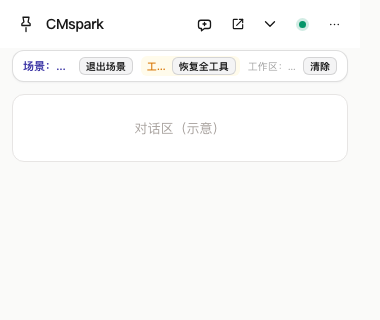
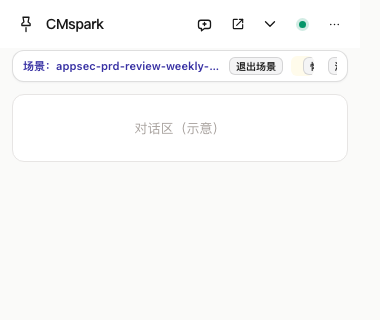
fix(sidepanel): #321 PR-2 round-2 — 场景名 chip 永不让位（grok 复审 MAJOR）
- SceneStatusRow: pack chip 专用 sceneChip (flexShrink:0)；工具面/工作区 chip
  先让位（flexShrink:1 + minWidth:0 + ellipsis）；行仍 nowrap，80px 帽不换行
- linkish 帽 160→200：病理长 id 只在自身帽上尾部省略，绝不塌缩成「场景：…」
- 决策注释写明 §1.1-3 让位表：attention 态场景让位，idle/轻 primary 必显
- 测试：+场景名可见性契约；禁第四条带正则改为 FocusBand↔ChatView 之间
  零 JSX 组件（含带子节点挂载）；ChatView/FleetStrip hook 消费钉死
- NIT-1: scripts/measure-now-band-heights.mjs — headless Chrome 实测
  [data-focus-band] 高度（scene 34px / confirm 68px ≤80）+ 场景名按钮宽度
  200px 未被压瘪；验收图换真实长 pack 名 appsec-prd-review-weekly-audit 重拍

Refs #321

Changed region(s): [[0.1447, 0.1562, 0.7526, 0.25], [0.8105, 0.1875, 0.8974, 0.25]]

diff --git a/chrome-extension/tests/now-band-321.test.ts b/chrome-extension/tests/now-band-321.test.ts
@@ -157,9 +157,11 @@ test("#321 PR-2: single buildScopedRunBusyInput derivation (was three)", () => {
     if (occurrences) hits.push(...occurrences.map(() => f))
   }
   assert.deepEqual(hits, ["hooks/use-scoped-run-busy.ts"])
-  // App + FocusBand both consume the hook
+  // App + FocusBand + ChatView + FleetStrip all consume the hook (no re-fork)
   assert.match(src("src/sidepanel/App.tsx"), /useScopedRunBusy\(\)/)
   assert.match(src("src/sidepanel/components/FocusBand.tsx"), /useScopedRunBusy\(\)/)
+  assert.match(src("src/sidepanel/components/ChatView.tsx"), /useScopedRunBusy\(\)/)
+  assert.match(src("src/sidepanel/components/FleetStrip.tsx"), /useScopedRunBusy\(\)/)
 })
 
 test("#321 PR-2: no fourth horizontal band — App stack is StatusRail + FocusBand above ChatView", () => {
@@ -172,8 +174,11 @@ test("#321 PR-2: no fourth horizontal band — App stack is StatusRail + FocusBa
   const band = app.indexOf("<FocusBand")
   const chat = app.indexOf("<ChatView")
   assert.ok(rail >= 0 && band > rail && chat > band)
-  const between = app.slice(band, chat)
-  assert.doesNotMatch(between, /<[A-Z][A-Za-z]+\s*\/>/) // no self-closing component mounts
+  // Between the FocusBand opening tag and ChatView: no JSX component mount at all
+  // (self-closing OR with children — `</?[A-Z]` catches both, comments still fine)
+  const bandOpenEnd = app.indexOf("/>", band) + 2
+  const between = app.slice(bandOpenEnd, chat)
+  assert.doesNotMatch(between, /<\/?[A-Z][A-Za-z]*[\s/>]/)
   // The three old band files are gone (readFileSync must throw ENOENT)
   const gone = (rel: string) => {
     try {
@@ -241,6 +246,35 @@ test("#321 PR-2: new rows fit their tier budgets (≤56 primary / ≤24 secondar
   assert.match(worker, /maxHeight:\s*28/)
   const runBusy = fb.slice(fb.indexOf("runBusyRow:"), fb.indexOf("runBusyDot:"))
   assert.match(runBusy, /maxHeight:\s*28/)
+})
+
+test("#321 PR-2: scene-name never squeezed to bare ellipsis — pack chip yields last (§1.1-3)", () => {
+  const row = src("src/sidepanel/components/SceneStatusRow.tsx")
+  // Pack chip is the ONLY non-shrinking chip; row stays single-line (80px cap via nowrap)
+  const sceneChip = row.slice(row.indexOf("sceneChip:"), row.indexOf("surfaceChip:"))
+  assert.match(sceneChip, /flexShrink:\s*0/)
+  assert.ok(!/flexShrink:\s*1/.test(sceneChip))
+  const chip = row.slice(row.indexOf("  chip:"), row.indexOf("sceneChip:"))
+  assert.match(chip, /flexShrink:\s*1/) // generic chip (surface/ws) yields
+  assert.match(row, /flexWrap:\s*"nowrap"/) // never trade the cap for a second line
+  // Tool-surface / workspace texts shrink with ellipsis BEFORE the scene name does
+  const surfaceText = row.slice(row.indexOf("surfaceText:"), row.indexOf("linkish:"))
+  assert.match(surfaceText, /flexShrink:\s*1/)
+  assert.match(surfaceText, /minWidth:\s*0/)
+  assert.match(surfaceText, /textOverflow:\s*"ellipsis"/)
+  const ws = row.slice(row.indexOf("  ws:"), row.indexOf("},", row.indexOf("  ws:")))
+  assert.match(ws, /flexShrink:\s*1/)
+  assert.match(ws, /minWidth:\s*0/)
+  // The scene-name button keeps its own generous cap: pathological names
+  // tail-ellipsize at the button, they are never crushed by sibling chips.
+  const linkish = row.slice(row.indexOf("linkish:"), row.indexOf("exitBtn:"))
+  assert.match(linkish, /textOverflow:\s*"ellipsis"/)
+  assert.match(linkish, /whiteSpace:\s*"nowrap"/)
+  const linkishMax = Number(linkish.match(/maxWidth:\s*(\d+)/)?.[1] ?? 0)
+  const surfaceMax = Number(surfaceText.match(/maxWidth:\s*(\d+)/)?.[1] ?? 0)
+  assert.ok(linkishMax > surfaceMax, "scene-name cap must exceed yielding chips' caps")
+  // Rendered markup proof: the pack chip mounts with the dedicated style
+  assert.match(row, /style=\{styles\.sceneChip\}/)
 })
 
 test("#321 PR-2: scene visibility wiring — FocusBand derives hasScene and renders the row", () => {

diff --git a/chrome-extension/src/sidepanel/components/SceneStatusRow.tsx b/chrome-extension/src/sidepanel/components/SceneStatusRow.tsx
@@ -3,6 +3,9 @@
 // FocusBand (primary "scene" or secondary under a light primary). Light tone only —
 // dark chrome belongs to Confirm/急停. Legacy data-testids preserved for stability:
 // scene-status-bar (row) / tool-surface-chip (surface chip).
+// Shrink priority (§1.1-3 场景名绝不隐藏): pack chip flexShrink:0 — tool-surface /
+// workspace chips yield first (flexShrink:1 + minWidth:0 + ellipsis); the row stays
+// nowrap so the band's 80px cap is never traded for a second chip line.
 
 import type { CSSProperties } from "react"
 import { useAgentStore } from "../store/agentStore"
@@ -104,7 +107,7 @@ export function SceneStatusRow({ secondary = false }: { secondary?: boolean } = 
     >
       {info.packId ? (
         <span
-          style={styles.chip}
+          style={styles.sceneChip}
           title="本对话挂有场景配方（工具白名单等）。软删/恢复不会自动写回 Trust 巡航；抬升需在场景面板重新应用并确认。"
         >
           <button type="button" style={styles.linkish} onClick={openScenes}>
@@ -179,6 +182,14 @@ const styles: Record<string, CSSProperties> = {
     flexShrink: 1,
     overflow: "hidden",
   },
+  /** §1.1-3: the pack chip never yields width — siblings ellipsize first. */
+  sceneChip: {
+    display: "inline-flex",
+    alignItems: "center",
+    gap: 6,
+    flexShrink: 0,
+    overflow: "hidden",
+  },
   surfaceChip: {
     background: tokens.warningSoft,
     borderRadius: tokens.radiusSm,
@@ -188,7 +199,9 @@ const styles: Record<string, CSSProperties> = {
     fontSize: 10,
     fontWeight: 600,
     color: tokens.warning,
-    maxWidth: 180,
+    flexShrink: 1,
+    minWidth: 0,
+    maxWidth: 120,
     overflow: "hidden",
     textOverflow: "ellipsis",
     whiteSpace: "nowrap",
@@ -202,7 +215,7 @@ const styles: Record<string, CSSProperties> = {
     cursor: "pointer",
     padding: 0,
     fontFamily: tokens.font,
-    maxWidth: 160,
+    maxWidth: 200,
     overflow: "hidden",
     textOverflow: "ellipsis",
     whiteSpace: "nowrap",
@@ -222,7 +235,9 @@ const styles: Record<string, CSSProperties> = {
   ws: {
     fontSize: 10,
     color: tokens.textMuted,
-    maxWidth: 140,
+    flexShrink: 1,
+    minWidth: 0,
+    maxWidth: 120,
     overflow: "hidden",
     textOverflow: "ellipsis",
     whiteSpace: "nowrap",

diff --git a/chrome-extension/src/sidepanel/components/focus-band-priority.ts b/chrome-extension/src/sidepanel/components/focus-band-priority.ts
@@ -188,9 +188,10 @@ export function resolveFocusBandSlot(input: FocusBandInput): FocusBandSlot {
 
 /**
  * #321 PR-2: whether the scene chips render as the ≤24px secondary row under a
- * light primary. Attention states own the whole band (Confirm / L2 + 急停), and a
- * consumed secondary line (abort / tools) takes height precedence — scene never
- * displaces them, it rides along or waits.
+ * light primary. Decision table: attention 态场景让位（Confirm / L2 + 急停 own the
+ * whole 80px — 「绝不隐藏场景名」按 §1.1 指挂场景 idle 与轻 primary 档：scene 为主行、
+ * fleet/L1/worker/run_busy 下搭次行）；已占用的次行（abort / tools）同样优先。
+ * Scene never displaces them, it rides along or waits.
  */
 export function sceneChipsSecondary(
   slot: FocusBandSlot,
